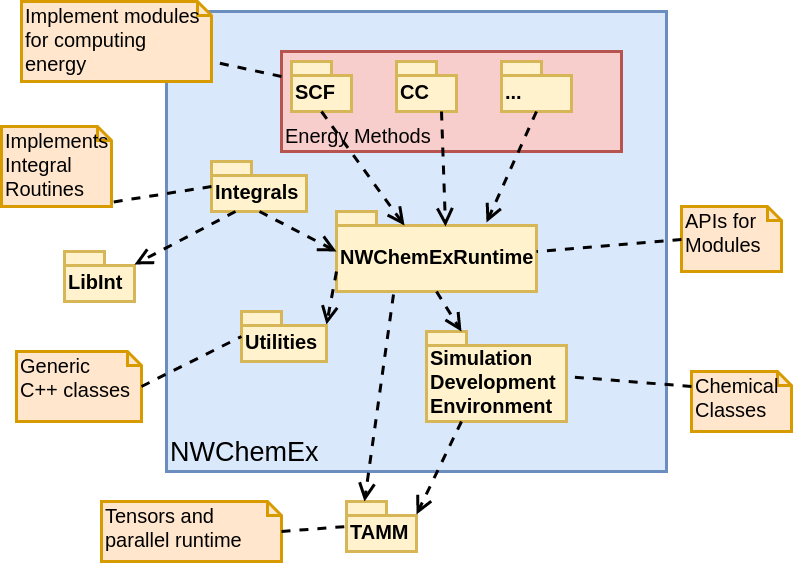
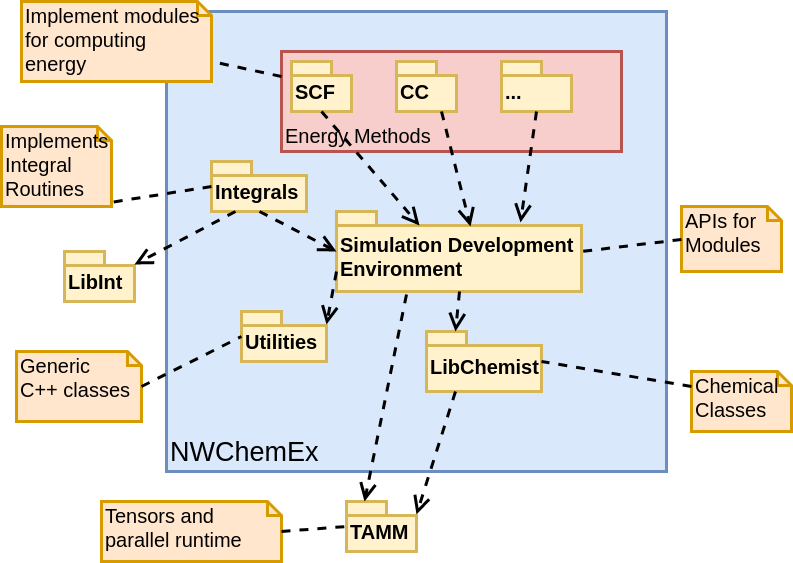
move runtime to sde, and put libchemist back

diff --git a/dox/firstbuild.md b/dox/firstbuild.md
@@ -50,7 +50,7 @@ git clone https://github.com/NWChemEx-Project/NWChemEx.git
 cd NWChemEx
 git clone https://github.com/NWChemEx-Project/CMakeBuild.git
 git clone https://github.com/NWChemEx-Project/Utilities.git
-git clone https://github.com/NWChemEx-Project/SimulationDevelopmentEnvironment.git
+git clone https://github.com/NWChemEx-Project/LibChemist.git
 git clone https://github.com/NWChemEx-Project/Integrals.git
 git clone https://github.com/NWChemEx-Project/SCF.git
 git clone https://github.com/NWChemEx-Project/DeveloperTools.git
@@ -88,8 +88,8 @@ make
 make install
 ctest
 
-cd $HOME/NWChemEx/SimulationDevelopmentEnvironment
-cmake -H. -B$HOME/NWChemEx/SimulationDevelopmentEnvironment/build -DCMAKE_INSTALL_PREFIX=$HOME/NWChemEx/install 
+cd $HOME/NWChemEx/LibChemist
+cmake -H. -B$HOME/NWChemEx/LibChemist/build -DCMAKE_INSTALL_PREFIX=$HOME/NWChemEx/install 
 cd build
 make
 make install
